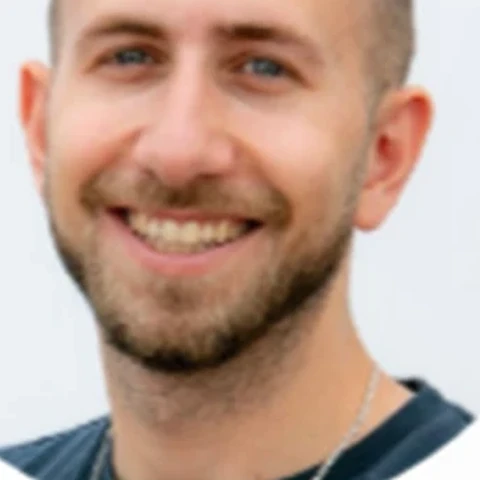
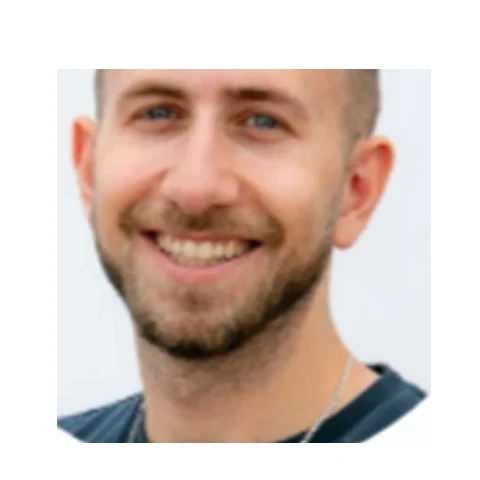
fix(ui): duplicate nav CTA, cropped team photos, header lift, stat copy (#13)
- .btn { display: inline-flex } was declared after .btn-mobile-cta's
  display:none override with equal specificity, so it always won and
  showed both the mobile and desktop join-CTA buttons at once on every
  viewport width. Moved the base .btn rules before the CTA overrides.
- Team headshots were pre-cropped too tight in the source images
  (foreheads/chins already cut off before any CSS ran), which is why
  object-position tweaks never fixed it. Re-framed all four photos with
  consistent face sizing/margin using face detection, and dropped the
  now-meaningless object-position override.
- Reworded the first problem stat to wrap to two lines like its
  siblings, and removed the aside stuck onto the CMT citation.
- Swapped .site-header's flat 1px border for a soft drop shadow so the
  sticky header reads as lifted instead of pasted flush to the viewport
  top (vertical centering itself measured correct at 40/40px, not a
  flex bug).

diff --git a/src/style.css b/src/style.css
@@ -79,7 +79,7 @@ body {
     z-index: 60;
     background: rgba(255, 255, 255, 0.75);
     backdrop-filter: blur(14px);
-    border-bottom: 1px solid var(--line);
+    box-shadow: 0 1px 0 var(--line), 0 12px 24px -16px rgba(15, 23, 42, 0.18);
 }
 
 .nav {
@@ -100,6 +100,30 @@ body {
 .nav-links { display: flex; gap: 1.75rem; }
 .nav-links a { color: var(--muted); text-decoration: none; font-weight: 600; font-size: 0.95rem; }
 .nav-links a:hover { color: var(--dark); }
+
+/* Buttons */
+.btn {
+    display: inline-flex;
+    align-items: center;
+    justify-content: center;
+    border-radius: 1rem;
+    font-weight: 700;
+    padding: 0.85rem 1.5rem;
+    text-decoration: none;
+    border: 1px solid transparent;
+    cursor: pointer;
+    transition: transform 0.15s ease, background 0.2s ease, border-color 0.2s ease;
+    font-family: inherit;
+    font-size: 1rem;
+}
+
+.btn-primary { background: var(--brand-600); color: #fff; box-shadow: var(--shadow-glow); }
+.btn-primary:hover { background: var(--brand-700); }
+
+.btn-ghost { border-color: #cbd5e1; color: #334155; background: transparent; }
+.btn-ghost:hover { border-color: #94a3b8; color: var(--dark); }
+
+.btn-sm { padding: 0.6rem 1.2rem; font-size: 0.9rem; border-radius: 999px; }
 
 .nav-actions {
     display: flex;
@@ -221,30 +245,6 @@ body {
         justify-content: center;
     }
 }
-
-/* Buttons */
-.btn {
-    display: inline-flex;
-    align-items: center;
-    justify-content: center;
-    border-radius: 1rem;
-    font-weight: 700;
-    padding: 0.85rem 1.5rem;
-    text-decoration: none;
-    border: 1px solid transparent;
-    cursor: pointer;
-    transition: transform 0.15s ease, background 0.2s ease, border-color 0.2s ease;
-    font-family: inherit;
-    font-size: 1rem;
-}
-
-.btn-primary { background: var(--brand-600); color: #fff; box-shadow: var(--shadow-glow); }
-.btn-primary:hover { background: var(--brand-700); }
-
-.btn-ghost { border-color: #cbd5e1; color: #334155; background: transparent; }
-.btn-ghost:hover { border-color: #94a3b8; color: var(--dark); }
-
-.btn-sm { padding: 0.6rem 1.2rem; font-size: 0.9rem; border-radius: 999px; }
 
 /* Hero */
 .hero { position: relative; overflow: hidden; padding: 3rem 0 4rem; }
@@ -475,7 +475,6 @@ body {
     aspect-ratio: 1 / 1;
     border-radius: 9999px;
     object-fit: cover;
-    object-position: 50% 20%;
     margin: 0 auto 1rem;
     border: 3px solid #fff;
     box-shadow: 0 0 0 1px var(--line);

diff --git a/index.html b/index.html
@@ -140,7 +140,7 @@
                     <div class="stat-grid">
                         <article class="stat-card">
                             <span class="stat-num">459</span>
-                            <p>הרוגים בתאונות דרכים בישראל ב-2025</p>
+                            <p>הרוגים בתאונות דרכים בכבישי ישראל במהלך שנת 2025</p>
                             <span class="stat-source">אור ירוק · הלשכה המרכזית לסטטיסטיקה</span>
                         </article>
                         <article class="stat-card">
@@ -151,7 +151,7 @@
                         <article class="stat-card stat-card-accent">
                             <span class="stat-num" dir="ltr">-35%</span>
                             <p>שימוש בטלפון ברגע שנהגים רואים את הציון שלהם</p>
-                            <span class="stat-source">Cambridge Mobile Telematics · זה בדיוק מה ש-Carma בנויה לעשות</span>
+                            <span class="stat-source">Cambridge Mobile Telematics</span>
                         </article>
                     </div>
                 </div>
